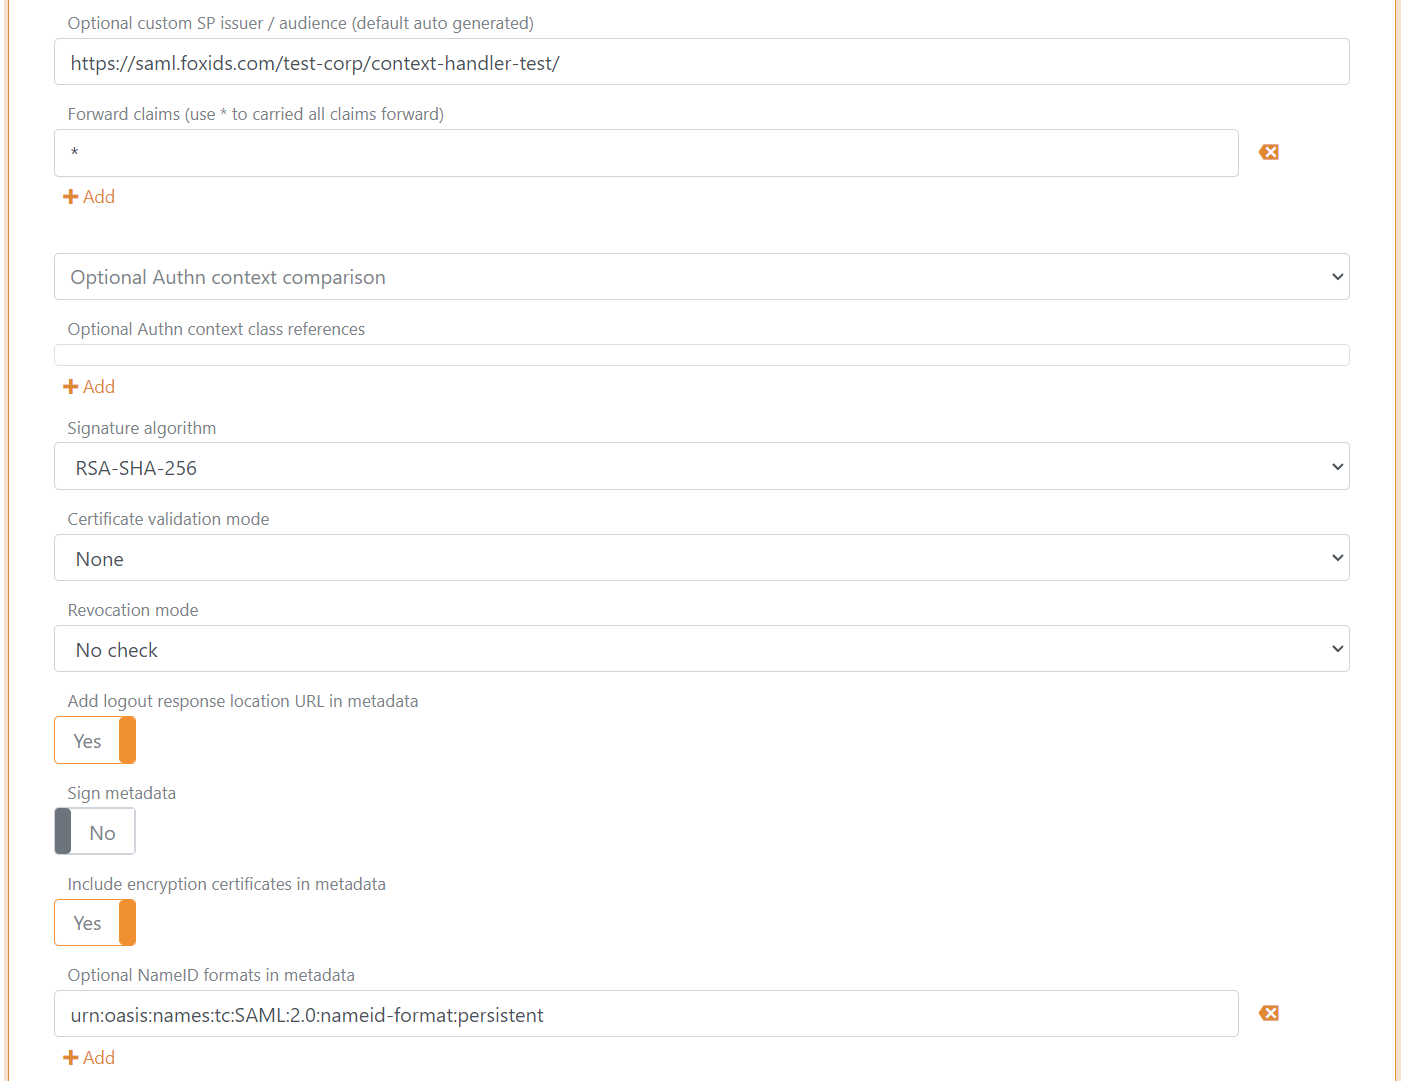
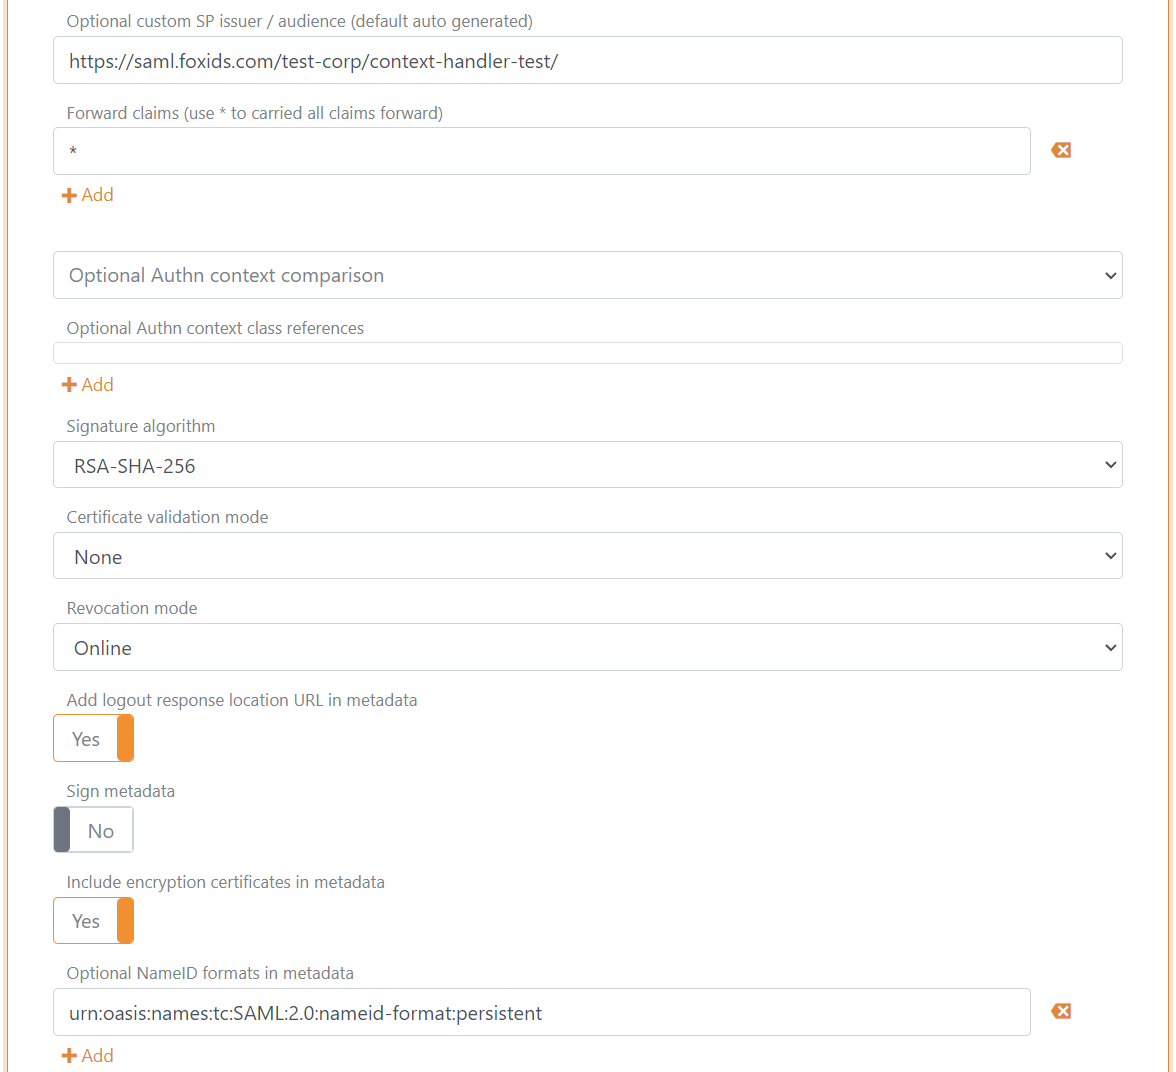
docs, Context Handler

diff --git a/docs/howto-saml-2.0-context-handler.md b/docs/howto-saml-2.0-context-handler.md
@@ -2,50 +2,48 @@
 **Both up-party and down-party for testing**
 
 FoxIDs can be connected to Context Handler (Danish identity broker, F&aelig;lleskommunal Adgangsstyring) with a [SAML 2.0 up-party](up-party-saml-2.0.md). 
-Where Context Handler is a SAML 2.0 [Identity Provider (IdP)](#configuring-context-handler-as-identity-provider-idp) and FoxIDs is acting as an SAML 2.0 Relying Party.
+Context Handler is connected as a SAML 2.0 [Identity Provider (IdP)](#configuring-context-handler-as-identity-provider).
 
-In the test environment FoxIDs can be connected to Context Handler as a test Identity Provider with a [SAML 2.0 down-party](down-party-saml-2.0.md) where Context Handler is a SAML 2.0 [Relying Party (RP)](#configuring-context-handler-as-relying-party-rp).  
-Acting as test Identity Provider FoxIDs can handle login with test users.
+In the test environment, FoxIDs can be connected to Context Handler as a test Identity Provider with a [SAML 2.0 down-party](down-party-saml-2.0.md) and authenticate test users. Context Handler is connected as a SAML 2.0 [test Relying Party (RP)](#configuring-context-handler-as-test-relying-party).
 
-Context Handler is a Danish identity broker connecting the Danish municipalities in a common federation. Context Handler can be configured based on either OIOSAML 2 or OIOSAML 3. FoxIDs support both OIOSAML 2 / OIOSAML 3, issuer naming, required certificates and it is possible to support NSIS.
+Context Handler is a Danish identity broker connected the Danish municipalities in a common federation. Context Handler can be configured based on either OIOSAML 2 or OIOSAML 3 and FoxIDs furthermore support the required certificates and it is possible to support NSIS.
 
 > Transforms the [DK privilege XML claim](claim-transform-dk-privilege.md) to a JSON claim.
 
-Context Handler documentation and configuration:
-- The [Context Handler get started](https://digitaliseringskataloget.dk/l%C3%B8sninger/adgangsstyring-brugere).
-- The [Context Handler administration portal](https://serviceplatformen.dk/administration/) 
-- The Context Handler [test application with NSIS](https://spwithnsis.eksterntest-stoettesystemerne.dk ) and [test application with out NSIS](https://spwithoutnsis.eksterntest-stoettesystemerne.dk)
-- The [current/old Context Handler test application](https://demo-brugervendtsystem.kombit.dk/test) 
+Context Handler documentation:
+- Context Handler [guide](https://digitaliseringskataloget.dk/l%C3%B8sninger/adgangsstyring-brugere).
+- [Context Handler administration portal](https://serviceplatformen.dk/administration/) 
+- Context Handler [test application with NSIS](https://spwithnsis.eksterntest-stoettesystemerne.dk) and [test application with out NSIS](https://spwithoutnsis.eksterntest-stoettesystemerne.dk)
 
 ## Separate track
 
-Context Handler requires the Relying Party (RP) and Identity Provider (IdP) to use different OSES certificates. Therefore, consider connecting Context Handler in separate tracks where the OCES3 certificates can be configured without affecting any other configurations.
+Context Handler requires each connection in an environment (test or production) to use a unique OCES3 certificate.  
+Therefore, consider connecting Context Handler in separate tracks where the OCES3 certificates can be configured without affecting any other configurations.
 
-You can easy connect two tracks in the same tenant with a [track link](howto-tracklink-foxids.md).
+If you both configure a test and production environment, they should be placed in separate tracks. If you set up a [test Relying Party](#configuring-context-handler-as-test-relying-party), it should also be placed in a separate track and have a unique OCES3 certificate.
+
+You can easily connect two tracks in the same tenant with a [track link](howto-tracklink-foxids.md).
 
 ## Certificate
 
-Context Handler requires all requests (authn and logout) to be signed with OCES3 certificates. It is NOT possible to use a certificate issued by another certificate authority, a self-signed certificate or a certificate issued by FoxIDs.
+Context Handler requires all requests (authn and logout) to be signed with real production OCES3 certificates in all environments. It is NOT possible to use a certificate issued by another certificate authority, a self-signed certificate or test OCES3 certificates.
 
 A OCES3 certificate is valid for three years. After that, it must be updated manually.
 
 > If the `.P12` file fails to load, you can convert it to a `.PFX` file with the [FoxIDs.ConvertCertificateTool](https://github.com/ITfoxtec/FoxIDs/tree/master/tools/FoxIDs.ConvertCertificateTool).
 
 Add the `.P12` OCES3 certificate in [FoxIDs Control Client](control.md#foxids-control-client):
-1. Select (or create) the track to be used for Context Handler as Relying Party (RP) or Identity Provider (IdP)
+1. Select (or create) a [separate track](#separate-track) to be used for Context Handler as [Identity Provider](#configuring-context-handler-as-identity-provider) or [test Relying Party](#configuring-context-handler-as-test-relying-party)
 2. Select the Certificates tab
 3. Click the arrow down on the Swap certificate button and then in the Contained certificates section click Change container type
-4. Then click on the primary certificate, then write the password and upload the `.P12` OCES3 certificate 
+4. Then click on the primary certificate, then write the password and upload the `.P12` or `.PFX` OCES3 certificate 
 
 ![Add OCES3 certificate](images/howto-saml-context-handler-certificate.png)
 
 It is subsequently possible to add a secondary certificate and to swap between the primary and secondary certificates.
 
-## Configuring Context Handler as Identity Provider (IdP)
-
-*FoxIDs up-party is a SAML 2.0 Relying Party (RP) and trust Context Handler as an Identity Provider (IdP).*
-
-This guide is for Context Handler and use OIOSAML3.
+## Configuring Context Handler as Identity Provider
+This guide describe how to setup Context Handler as a SAML 2.0 Identity Provider and comply to OIOSAML3.
 
 > You need to [configure the OCES3 certificate](#certificate) before following this configuration.
 
@@ -54,25 +52,26 @@ This guide is for Context Handler and use OIOSAML3.
 1. Select the Parties tab and then the Up-parties
 2. Click Create up-party and then SAML 2.0
 3. Add the name
-4. Add the Context Handler IdP metadata in the Metadata URL field
+4. Add the Context Handler IdP metadata in the Metadata URL field  
+   Test metadata: `https://n2adgangsstyring.eksterntest-stoettesystemerne.dk/runtime/saml2/metadata.idp`  
+   Production metadata: `https://n2adgangsstyring.stoettesystemerne.dk/runtime/saml2/metadata.idp` 
 5. Click Create
-6. Set Logout response binding to POST
 
-> If you upload the metadata file to Context Handler you may need to change the logout response binding to redirect. Because Context Handler currently has an error where it require a logout redirect binding in metadata even through Context Handler actually subsequently uses the logout post binding.
+> If you upload the metadata file to Context Handler you may need to temporary change the logout response binding to redirect. Because Context Handler currently has an error where it require a logout redirect binding in metadata even through Context Handler actually subsequently uses the logout post binding.
 
 ![Context Handler SAML 2.0 up-party](images/howto-saml-context-handler-up-read-metadata.png)
 
-7. Select show advanced settings
-8. Configure a custom SP issuer, the issuer can optionally to start with `https://saml.` The issuer in this example `https://saml.foxids.com/test-corp/context-handler-test/`
-9. In production only! Set certificate validation mode to `Chain trust` (if the OCES3 certificate is global trusted) and revocation mode to `Online`
-10. Select to add logout response location URL in metadata
-11. Select to include the encryption certificate in metadata
-12. Set the NameID format in metadata to `urn:oasis:names:tc:SAML:2.0:nameid-format:persistent`
+6. Select show advanced settings
+7. Configure a custom SP issuer, the issuer can optionally start with `https://saml.` The issuer in this example `https://saml.foxids.com/test-corp/context-handler-test/`
+8. Set certificate validation mode to `Chain trust` (if the OCES3 certificate is global trusted) and revocation mode to `Online`
+9. Select to add logout response location URL in metadata
+10. Select to include the encryption certificate in metadata
+11. Set the NameID format in metadata to `urn:oasis:names:tc:SAML:2.0:nameid-format:persistent`
 
 ![Context Handler SAML 2.0 up-party](images/howto-saml-context-handler-up-nameidformat.png)
 
-13. Add an attribute consuming service in metadata and add the service name.
-14. Add all the claims you want to receive as requested attributes with the format `urn:oasis:names:tc:SAML:2.0:attrname-format:uri`. Optionally set each attribute as required.
+12. Add an attribute consuming service in metadata and add the service name.
+13. Add all the claims you want to receive as requested attributes with the format `urn:oasis:names:tc:SAML:2.0:attrname-format:uri`. Optionally set each attribute as required.
 
 The following claims is most often used:
 
@@ -88,30 +87,33 @@ The following claims is most often used:
 
 ![Context Handler SAML 2.0 up-party](images/howto-saml-context-handler-up-attributes.png)
 
-15. Add at a administrative contact person
-16. Click Update
-17. Go to the top of the SAML 2.0 up-party
-18. Find the SAML 2.0 up-party SP-metadata URL, in this case `https://foxids.com/test-corp/context-handler-test/(cp-rp)/saml/spmetadata`. 
-19. The SP-metadata URL is used to configure the Context Handler user system (DK: brugervendt system).
+14. Add at a administrative contact person
+15. Click Update
+16. Go to the top of the SAML 2.0 up-party
+17. Find the SAML 2.0 up-party SP-metadata URL, in this case https://foxids.com/test-corp/context-handler-test/(cp-rp)/saml/spmetadata. 
+18. The SP-metadata URL is used to configure a Context Handler user system (DK: brugervendt system).
  
 **2 - Then go to the [Context Handler administration portal](https://serviceplatformen.dk/administration/)**
 
 1. Select IT-systems (DK: IT-systemer) 
 2. Click Add IT-system (DK: Tilslut it-system)
 3. Fill out the fields and select User system (DK: Brugervendt system)
-4. Go to the user system (DK: Brugervendt system) tab
-5. Remove the selection of Context Handler without NSIS and select Context Handler with NSIS
+4. Go to the User system tab (DK: Brugervendt system)
+5. Select Context Handler with NSIS and remove the selection of Context Handler without NSIS
 6. Select OIOSAML3 as OIOSAML profile and NSIS level
-7. Add the SAML 2.0 up-party SP-metadata URL .
-8. Fill out the rest and click Save (DK: Gem)
+7. Add the SAML 2.0 up-party SP-metadata URL `https://foxids.com/test-corp/context-handler-test/(cp-rp)/saml/spmetadata`.
+8. Fill out the rest, accept the terms and click Save (DK: Gem)
 
  **3 - Add privilege claim transformation in [FoxIDs Control Client](control.md#foxids-control-client)**
 
 FoxIDs can transforms the [DK privilege XML claim](claim-transform-dk-privilege.md) to a JSON claim. It is recommended to add the transformation in order to obtain smaller claims and tokens.
 Furthermore, it makes the tokens readable.
 
-1. Set the privilege claim `dk:gov:saml:attribute:Privileges_intermediate` or `https://data.gov.dk/model/core/eid/privilegesIntermediate` depending of the Context Handler version. 
-2. Remove the original privilege claim from the claims pipeline.
+1. Select the Claim transform tab
+2. Click Add claim transform and click DK XML privilege to JSON
+3. Click Add claim transform and click Match claim
+4. As action select Remove claim, to remove the original privilege claim from the claims pipeline
+5. In the Remove claim field add `https://data.gov.dk/model/core/eid/privilegesIntermediate` 
 3. Click update
 
 ![Context Handler SAML 2.0 up-party privilege claim transformation](images/howto-saml-privilege-claim-tf.png)
@@ -123,17 +125,19 @@ Furthermore, it makes the tokens readable.
  FoxIDs internally converts SAML 2.0 clams to JWT claims. Context Handler use a OIOSAML3 defined set of SAML 2.0 claims where corresponding JWT mappings need to be added.
 
  1. Go to Settings tab and Claim mappings
- 2. Add mappings for all the claims configured in step 1.14, you can create you own short JWT claim names if no standard name exists
+ 2. Add mappings for all the claims configured in step 1.13, you can create you own short JWT claim names if no standard name exists
  3. Click update
+
+ ![Context Handler SAML 2.0 claim mappings](images/howto-saml-claim-mappings.png)
 
 You are done. The SAML 2.0 up-party can now be used as an up-party for down-parties in the track.
 
 > A down-party will only issue added claims.  
 > Therefore, remember to add the JWT claims to OpenID Connect down-parties or use the `*` notation.
 
-## Configuring Context Handler as Relying Party (RP)
+## Configuring Context Handler as test Relying Party
 
-*FoxIDs down-party is a SAML 2.0 Identity Provider (IdP) and trusted by Context Handler acting as an Relying Party (RP).*
+This guide describe how to setup Context Handler as a SAML 2.0 test Relying Party and comply to OIOSAML3.
 
 This guide is for Context Handler and use OIOSAML2.
 
@@ -144,45 +148,40 @@ This guide is for Context Handler and use OIOSAML2.
 1. Select the Parties tab and then the Down-parties
 2. Click Create down-party and then SAML 2.0
 3. Add the name
-4. Select where the user should be allowed to login in Allow up-party names
-
-> Download the Context Handler RP metadata where you can find endpoints and the certificate to trust. The certificate is base64 and can be converted into a certificate .cer file with [FoxIDs certificate tool](https://www.foxids.com/tools/Certificate). 
-
-5. Add the endpoints
-6. Set the bindings to redirect with the exception of the Authn response binding which is set to post
-7. Set the claims which should be issued to Context Handler (`NameId` / `http://schemas.xmlsoap.org/ws/2005/05/identity/claims/nameidentifier` is default issued)
+4. Click Add allow up-party and click login, to let the user login with test users in the track
+5. Download the Context Handler RP metadata where you can find endpoints and the certificate to trust.  
+   Test metadata: `https://n2adgangsstyring.eksterntest-stoettesystemerne.dk/runtime/saml2auth/metadata.idp`  
+   The certificate is base64 and can be converted into a certificate .cer file with [FoxIDs certificate tool](https://www.foxids.com/tools/Certificate). 
+6. Add the issuer and endpoints from the metadata
+7. Set the bindings to redirect with the exception of the Authn response binding which is set to post
+8. Set the OIOSAML3 claims which should be issued to Context Handler
 
 The following claims is most often used:
 
-  - Context Handler 2 using OIOSAML2
-     - `dk:gov:saml:attribute:SpecVer`
-     - `dk:gov:saml:attribute:KombitSpecVer`
-     - `dk:gov:saml:attribute:AssuranceLevel`
-     - `dk:gov:saml:attribute:CvrNumberIdentifier`
-     - `dk:gov:saml:attribute:Privileges_intermediate`
+  - `https://data.gov.dk/model/core/specVersion`
+  - `https://data.gov.dk/model/core/kombitSpecVer`
+  - `https://data.gov.dk/concept/core/nsis/loa`
+  - `https://data.gov.dk/model/core/eid/professional/cvr`
+  - `https://data.gov.dk/model/core/eid/privilegesIntermediate`
 
-  - Context Handler 2 using OIOSAML3 (not used in this guide)
-     - `https://data.gov.dk/model/core/specVersion`
-     - `https://data.gov.dk/model/core/kombitSpecVer`
-     - `https://data.gov.dk/concept/core/nsis/loa`
-     - `https://data.gov.dk/model/core/eid/professional/cvr`
-     - `https://data.gov.dk/model/core/eid/privilegesIntermediate`
-
-8. Add the Context Handler RP certificate as a signature validation certificate
-9. Click Create
+9. Add the certificate from the metadata as a signature validation certificate
+10. Click Create
 
 ![Context Handler SAML 2.0 down-party](images/howto-saml-context-handler-down-base-config.png)
 
-10. Select show advanced settings
-11. In production only! Set certificate validation mode to `Chain trust` (if the OCES3 certificate is global trusted) and revocation mode to `Online`
-12. Configure a custom IdP issuer, the issuer is required to start with `https://saml.` The issuer in this example `https://saml.localdev-ipd.foxids.com/test-corp/test-contexthandler-idp/`.
-13. Select to add logout response location URL in metadata
-14. Select to include the encryption certificate in metadata
-15. Set the NameID format in metadata to `urn:oasis:names:tc:SAML:1.1:nameid-format:X509SubjectName`
-16. Click Update
-17. Go to the top of the SAML 2.0 down-party
-18. Find the SAML 2.0 down-party IdP-metadata, in this case `https://localhost:44330/testcorp/test-contexthandler-idp/ch-idp(*)/saml/idpmetadata`. 
-19. The IdP-metadata is used to configure the Context Handler identity provider.
+11. Select show advanced settings
+12. Select Encrypt authn response
+13. Add the certificate from the metadata as a optional encryption certificate
+
+12. Set certificate validation mode to `Chain trust` (if the OCES3 certificate is global trusted) and revocation mode to `Online`
+13. Configure a custom IdP issuer, the issuer is required to start with `https://saml.` The issuer in this example `https://saml.foxids.com/test-corp/context-handler-test-idp/`.
+14. Select to add logout response location URL in metadata
+15. Select to include the encryption certificate in metadata
+16. Set the NameID format in metadata to `urn:oasis:names:tc:SAML:1.1:nameid-format:X509SubjectName`
+17. Click Update
+18. Go to the top of the SAML 2.0 down-party
+19. Find the SAML 2.0 down-party IdP-metadata, in this case `https://localhost:44330/testcorp/test-contexthandler-idp/ch-idp(*)/saml/idpmetadata`. 
+20. The IdP-metadata is used to configure the Context Handler identity provider.
  
 **2 - Then go to the [Context Handler administration portal](https://serviceplatformen.dk/administration/)**
 
@@ -190,7 +189,7 @@ The following claims is most often used:
 2. Click Add IT-system (DK: Tilslut it-system)
 3. Fill out the fields and select Identity Provider
 4. Add the SAML 2.0 down-party IdP-metadata in the Identity Provider tab.
-5. Fill out the rest and click Save (DK: Gem)
+5. Fill out the rest, accept the terms and click Save (DK: Gem)
 
 > Additionally, a federation agreement (DK: f&oslash;derationsaftaler) is required to enable the identity provider in Context Handler.
 

diff --git a/docs/howto-connect.md b/docs/howto-connect.md
@@ -36,7 +36,7 @@ How to guides:
 - Connect [PingIdentity / PingOne](up-party-howto-saml-2.0-pingone.md)
 - Connect [Microsoft AD FS](up-party-howto-saml-2.0-adfs.md)
 - Connect [NemLog-in (Danish IdP)](up-party-howto-saml-2.0-nemlogin.md)
-- Connect [Context Handler (Danish identity broker)](howto-saml-2.0-context-handler.md)
+- Connect [Context Handler (Danish identity broker)](howto-saml-2.0-context-handler.md#configuring-context-handler-as-identity-provider)
 
 ## Down-party - How to become an Identity Provider (IdP)
 When you configure a down-party with either OpenID Connect or SAML 2.0, FoxIDs become an OpenID Provider (OP) / Identity Provider (IdP). 
@@ -51,7 +51,7 @@ Configure [SAML 2.0 down-party](down-party-saml-2.0.md) to be an Identity Provid
 
 How to guides:
 
-- Connect test IdP on [Context Handler (Danish identity broker)](howto-saml-2.0-context-handler.md#configuring-context-handler-as-relying-party-rp)
+- Connect test IdP on [Context Handler (Danish identity broker)](howto-saml-2.0-context-handler.md#configuring-context-handler-as-test-relying-party)
 
 
 ## Connect FoxIDs tracks

diff --git a/docs/howto-oidc-foxids.md b/docs/howto-oidc-foxids.md
@@ -3,7 +3,7 @@
 FoxIDs can be connected to another FoxIDs with OpenID Connect and thereby authenticating end users in another FoxIDs track or an external Identity Provider (IdP) configured as an up-party.  
 FoxIDs tracks can be interconnect in the same FoxIDs tenant or in different FoxIDs tenants. Interconnections can also be configured between FoxIDs tracks in different FoxIDs deployments.
 
-> You can easy connect two tracks in the same tenant with a [track link](howto-tracklink-foxids.md).
+> You can easily connect two tracks in the same tenant with a [track link](howto-tracklink-foxids.md).
 
 The integration between two FoxIDs tracks support [OpenID Connect authentication](https://openid.net/specs/openid-connect-core-1_0.html#Authentication) (login), [RP-initiated logout](https://openid.net/specs/openid-connect-rpinitiated-1_0.html) and [front-channel logout](https://openid.net/specs/openid-connect-frontchannel-1_0.html). A session is established when the user authenticates and the session is invalidated on logout.
 

diff --git a/docs/up-party-howto-saml-2.0-nemlogin.md b/docs/up-party-howto-saml-2.0-nemlogin.md
@@ -75,7 +75,7 @@ It is subsequently possible to add a secondary certificate and to swap between t
 
 ![NemLog-in SAML 2.0 up-party](images/howto-saml-nemlogin3-up-read-metadata.png)
 
-10. Configure a custom SP issuer, the issuer can start with `https://saml.`
+10. Configure a custom SP issuer, the issuer can optionally start with `https://saml.`
     - The issuer in this example is `https://saml.foxids.com/test-corp/nemlogin-test/`
 11. Remove the `*` and configure claims, the following claims is most often used:
     - `https://data.gov.dk/concept/core/nsis/loa`
